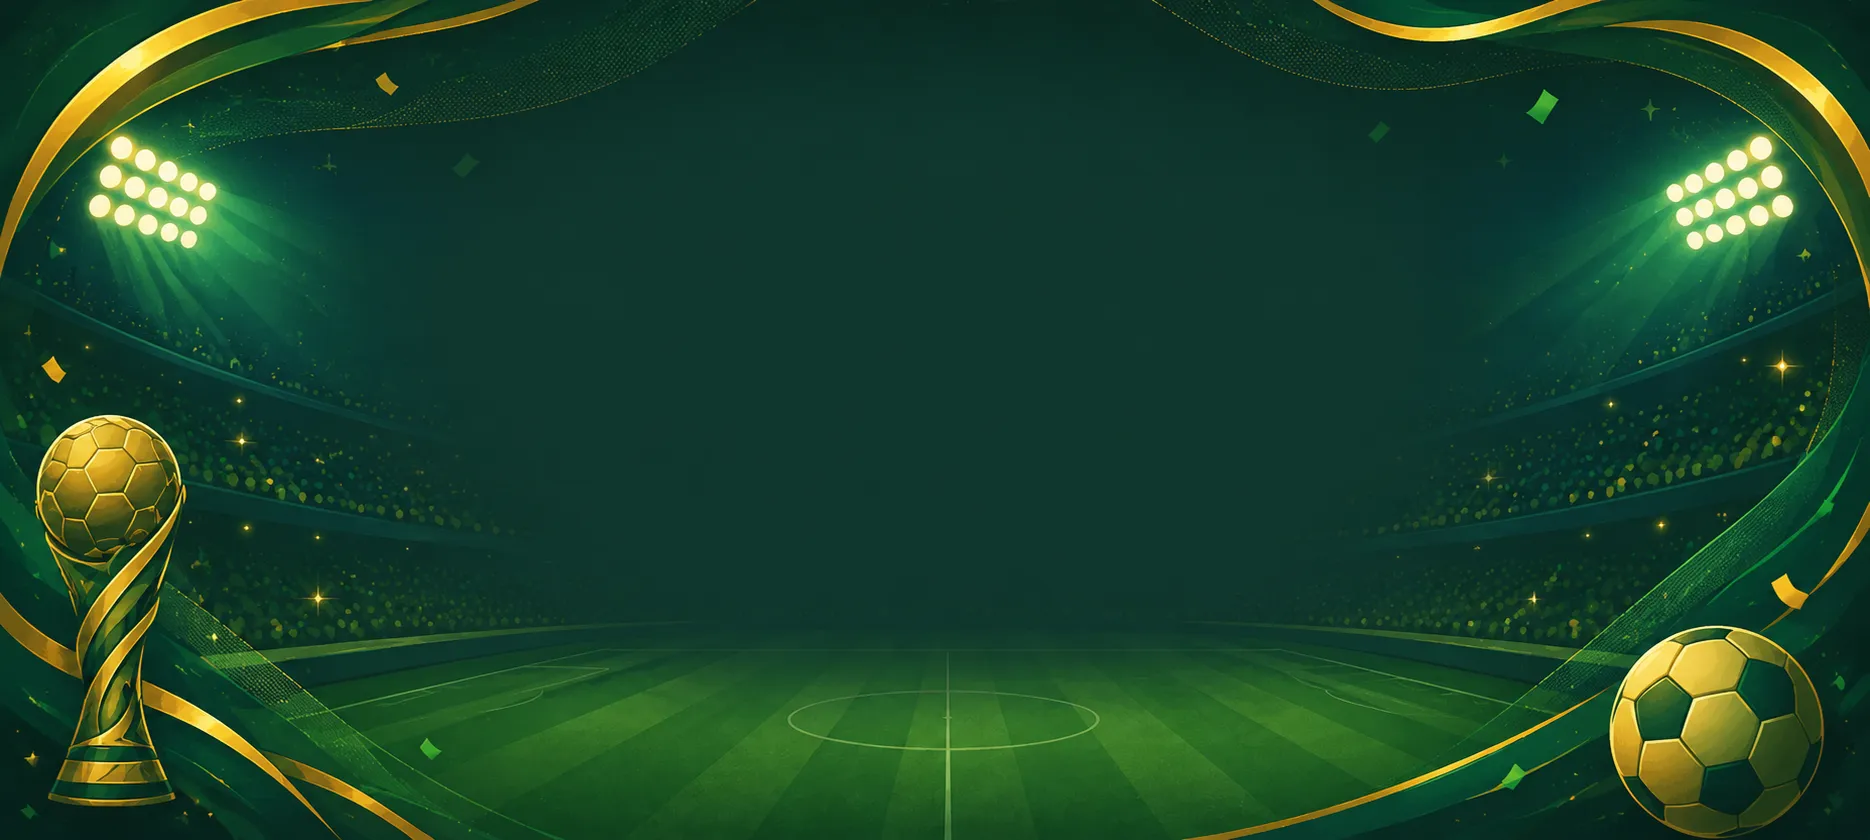
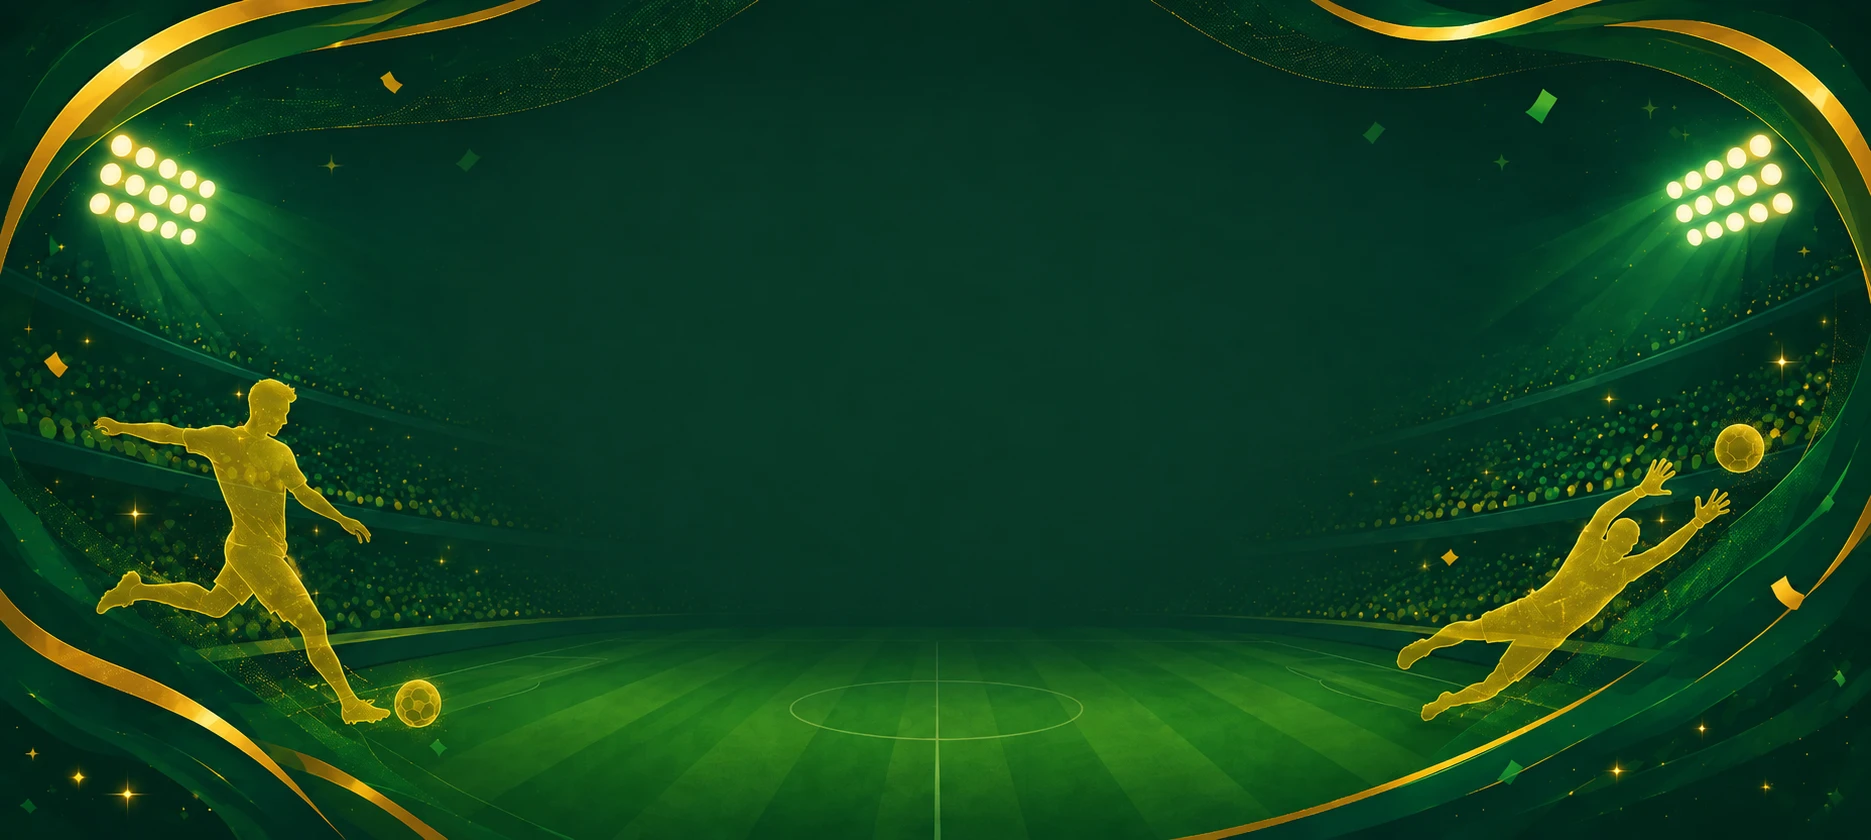
Restore stats tab tournament background

diff --git a/src/tests/tournamentFlow.test.ts b/src/tests/tournamentFlow.test.ts
@@ -42,11 +42,14 @@ describe('tournament hub scene integration', () => {
     const backgroundSource = readFileSync(join(process.cwd(), 'src', 'ui', 'tournamentBackground.ts'), 'utf8');
 
     expect(hubSource).toContain("import { createTournamentBackground } from '../ui/tournamentBackground'");
-    expect(hubSource).toContain('createTournamentBackground(this, this.getBackgroundAssetKey())');
-    expect(hubSource).toContain("this.activeTab === 'stats' ? TOURNAMENT_ASSETS.statsBackground : TOURNAMENT_ASSETS.background");
+    expect(hubSource).toContain('createTournamentBackground(this)');
+    expect(hubSource).not.toContain('getBackgroundAssetKey');
+    expect(hubSource).not.toContain('TOURNAMENT_ASSETS.statsBackground');
+    expect(hubSource).not.toContain('cup-stats-bg');
     expect(hubSource).toContain("matches: 'Matches'");
     expect(hubSource).toContain("tables: 'Group Stage'");
     expect(hubSource).toContain("bracket: 'Playoff'");
+    expect(hubSource).toContain("stats: 'Stats'");
     expect(backgroundSource).toContain('textureKey: string = TOURNAMENT_ASSETS.background');
     expect(backgroundSource).toContain('scene.textures.exists(textureKey) ? textureKey : TOURNAMENT_ASSETS.background');
     expect(hubSource).not.toContain(

diff --git a/src/scenes/TournamentHubScene.ts b/src/scenes/TournamentHubScene.ts
@@ -1,5 +1,5 @@
 import Phaser from 'phaser';
-import { GAME_TITLE, GAME_VERSION, SCENE_HEIGHT, SCENE_WIDTH, TOURNAMENT_ASSETS } from '../config';
+import { GAME_TITLE, GAME_VERSION, SCENE_HEIGHT, SCENE_WIDTH } from '../config';
 import { getFlagAssetKey, getTeamScoreboardCode, NATIONAL_TEAMS, type NationalTeam } from '../data/nationalTeams';
 import {
   getTournamentFormat,
@@ -194,7 +194,7 @@ export class TournamentHubScene extends Phaser.Scene {
     const tournament = this.getTournament();
     const layout = createTournamentHubLayout();
 
-    createTournamentBackground(this, this.getBackgroundAssetKey());
+    createTournamentBackground(this);
 
     if (tournament === null) {
       this.renderMissingTournament();
@@ -249,10 +249,6 @@ export class TournamentHubScene extends Phaser.Scene {
     new Button(this, SCENE_WIDTH / 2, 500, 'Menu', () => this.runGuardedInputAction(() => this.scene.start('MenuScene')), {
       width: 260
     });
-  }
-
-  private getBackgroundAssetKey(): string {
-    return this.activeTab === 'stats' ? TOURNAMENT_ASSETS.statsBackground : TOURNAMENT_ASSETS.background;
   }
 
   private createVersionLabel(layout: TournamentHubLayout): void {

diff --git a/src/tests/tournamentHubLayout.test.ts b/src/tests/tournamentHubLayout.test.ts
@@ -719,7 +719,7 @@ describe('Tournament Hub responsive layout', () => {
   it('renders the Tournament Hub version label from the shared game version source', () => {
     const source = readSource('src/scenes/TournamentHubScene.ts');
 
-    expect(source).toContain("import { GAME_TITLE, GAME_VERSION, SCENE_HEIGHT, SCENE_WIDTH, TOURNAMENT_ASSETS } from '../config'");
+    expect(source).toContain("import { GAME_TITLE, GAME_VERSION, SCENE_HEIGHT, SCENE_WIDTH } from '../config'");
     expect(source).toContain('private createVersionLabel(layout: TournamentHubLayout): void');
     expect(source).toContain('this.createVersionLabel(layout)');
     expect(source).toContain('`${GAME_TITLE} | v${GAME_VERSION}`');
